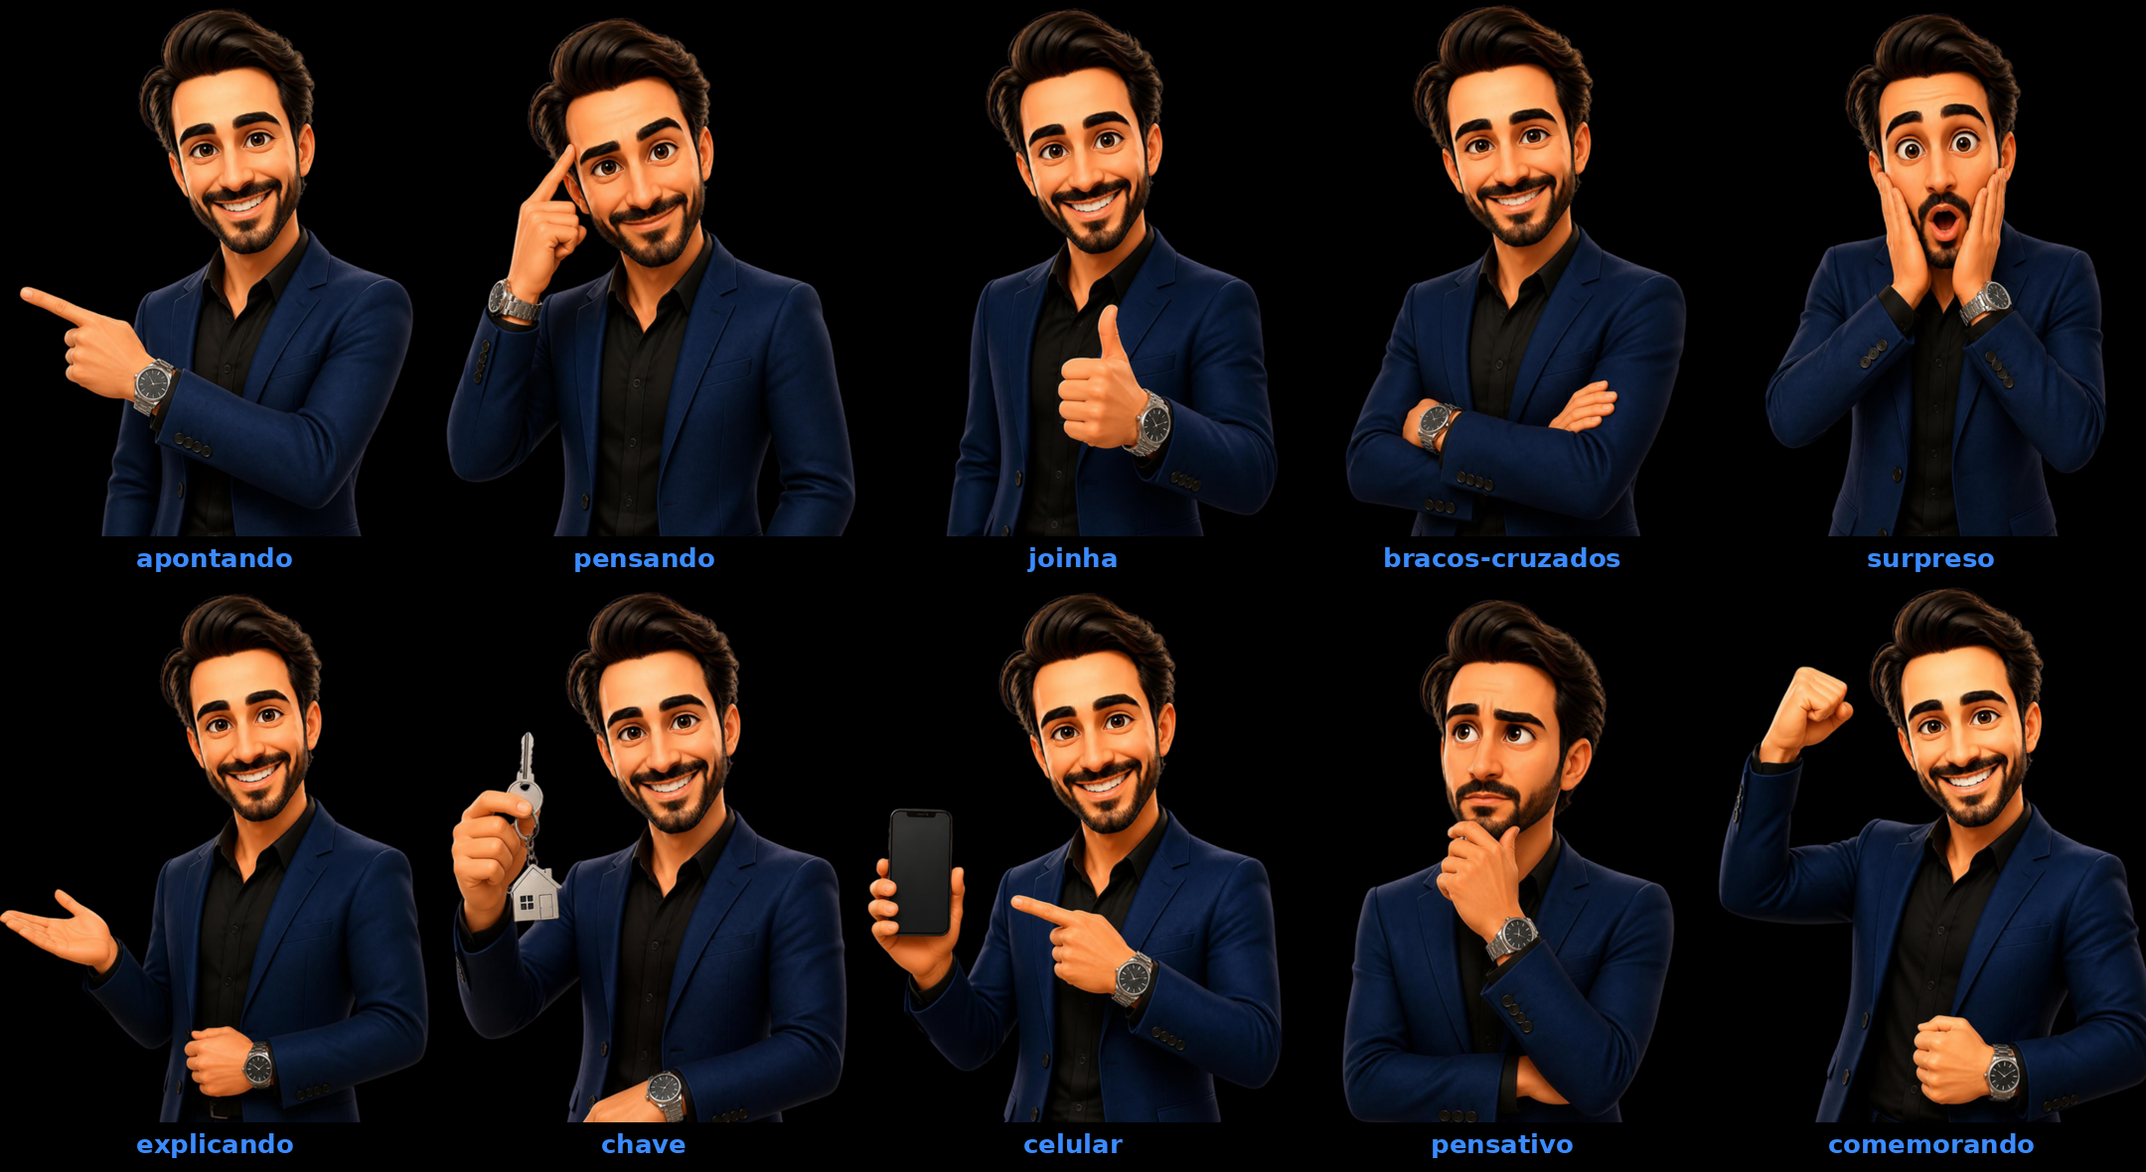
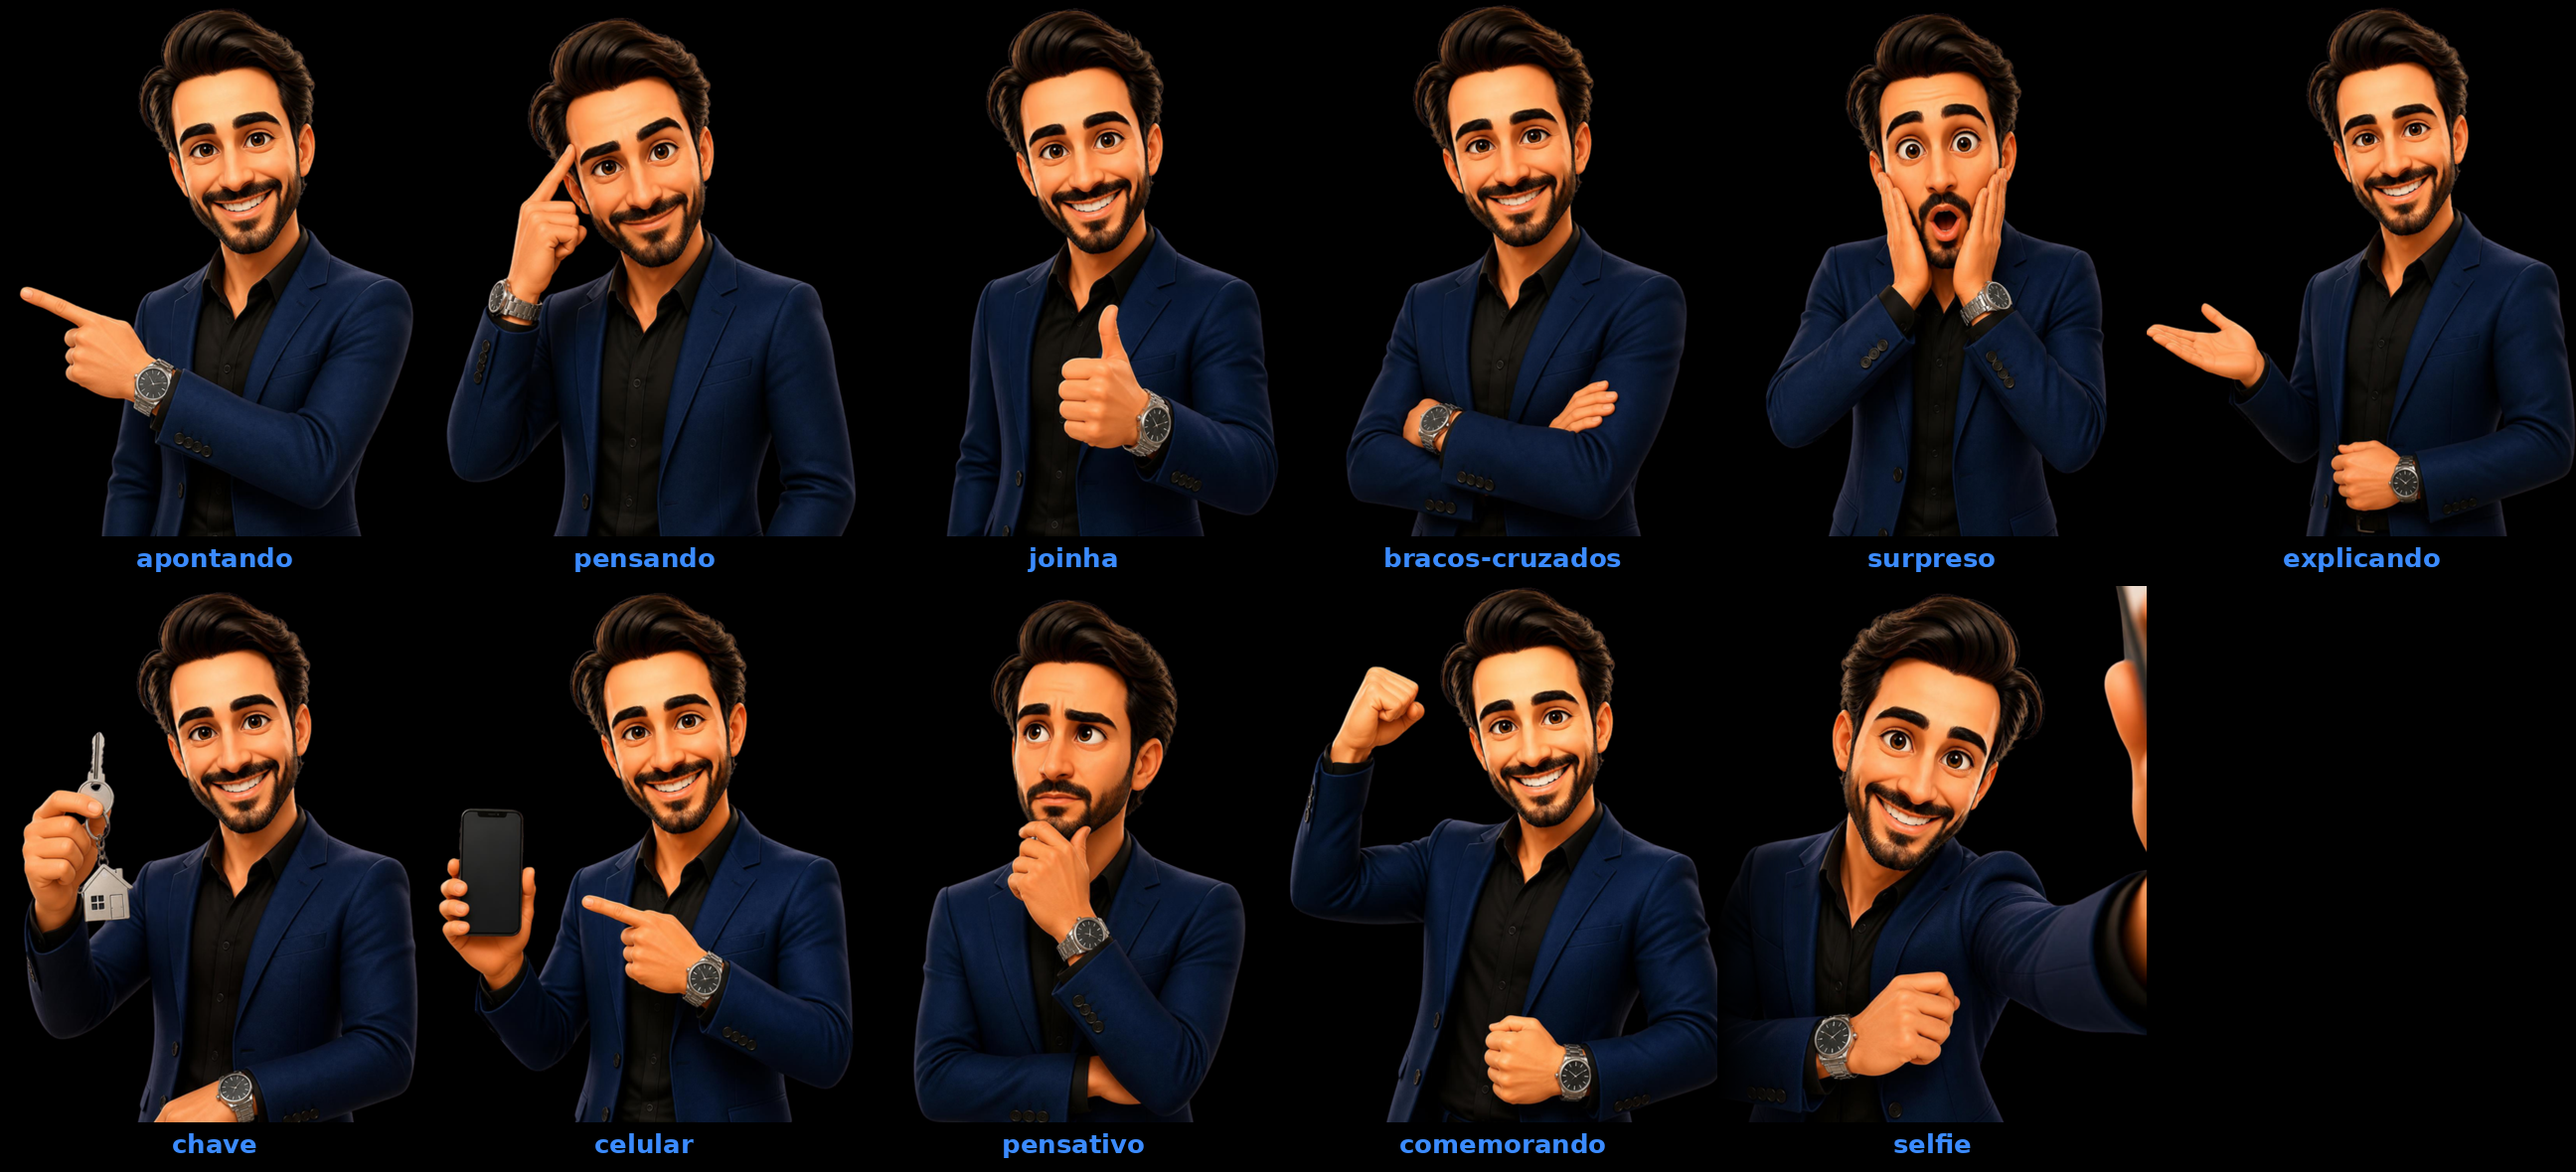
Carrossel financiamento reprovado: pessoas trocadas pelo boneco (capa pensando, CTA selfie) + pose nova selfie
Claude-Session: https://claude.ai/code/session_018X91MFfPMRMPYSAfb3KdfT

diff --git a/.claude/skills/carrossel/SKILL.md b/.claude/skills/carrossel/SKILL.md
@@ -34,7 +34,7 @@ Foto **apontando** (sem fundo, 2026-10-11): `docs/posicionamento/assets/matheus-
 ## Boneco 3D do Matheus (2026-10-11)
 **Regra do dono (2026-10-12) — automática, sem ele pedir:** sempre que a referência tiver uma **pessoa** na lâmina (o autor do post, alguém posando, apontando, reagindo), recriar essa lâmina com o **boneco** no lugar da pessoa — escolher a pose/expressão mais parecida entre as existentes (meio corpo ou `corpo-inteiro/`). Se nenhuma pose combinar, **criar a pose nova** (fluxo abaixo), salvar em `boneco-3d/` (ou `corpo-inteiro/`), atualizar a `prancha.png` e a lista de poses desta seção, e usar no carrossel — tudo no mesmo pedido, avisando na entrega qual pose foi criada. Cena com outra pessoa além do autor (ex.: cliente na foto): o boneco ocupa o lugar do autor; não colocar pessoas reais nem inventar "cliente" como se fosse real.
 
-Personagem 3D **estilo desenho animado/caricatura** (cabeça e olhos grandes, traços simplificados — o dono pediu em 2026-10-11 que pareça claramente um boneco, não uma versão "mais bonita" dele), feito no Canva a partir das fotos dele (só as fotos em que ele aparece sozinho), fundo transparente, em `docs/posicionamento/assets/boneco-3d/<pose>.png` (catálogo: `prancha.png`). Poses: `apontando`, `pensando`, `joinha`, `bracos-cruzados`, `surpreso`, `explicando`, `chave`, `celular`, `pensativo`, `comemorando`. Na lâmina: `"boneco": "<pose>"` (entra à direita, igual ao `comFoto`). **Corpo inteiro** (2026-10-12) em `boneco-3d/corpo-inteiro/` (catálogo `prancha.png`): `em-pe`, `apontando`, `joinha`, `bracos-cruzados`, `andando`, `chave`, `pasta`, `celular`, `comemorando`, `sentado` — usar `"boneco": "corpo-inteiro/<pose>"`. Visual pedido pelo dono: bem magro, 1,70 m, esporte fino, calça na altura do tornozelo, sem meia, mocassim preto sem cadarço (repetir isso no prompt de pose nova). Uma pose por lâmina, combinando com o texto (ex.: `pensando` na capa "eu faria isso", `surpreso` em mito/erro, `celular` no "me chama na DM", `chave` em conquista). Pose nova: gerar com `generate-image` pedindo "exatamente o MESMO personagem de desenho animado da primeira referência" e usando como 1ª referência uma das poses atuais + o mesmo texto de descrição (blazer azul-marinho, camisa preta, relógio prateado), `remove-background` e exportar com fundo transparente pelo design auxiliar.
+Personagem 3D **estilo desenho animado/caricatura** (cabeça e olhos grandes, traços simplificados — o dono pediu em 2026-10-11 que pareça claramente um boneco, não uma versão "mais bonita" dele), feito no Canva a partir das fotos dele (só as fotos em que ele aparece sozinho), fundo transparente, em `docs/posicionamento/assets/boneco-3d/<pose>.png` (catálogo: `prancha.png`). Poses: `apontando`, `pensando`, `joinha`, `bracos-cruzados`, `surpreso`, `explicando`, `chave`, `celular`, `pensativo`, `comemorando`, `selfie` (braço sai pela borda direita). Na lâmina: `"boneco": "<pose>"` (entra à direita, igual ao `comFoto`). **Corpo inteiro** (2026-10-12) em `boneco-3d/corpo-inteiro/` (catálogo `prancha.png`): `em-pe`, `apontando`, `joinha`, `bracos-cruzados`, `andando`, `chave`, `pasta`, `celular`, `comemorando`, `sentado` — usar `"boneco": "corpo-inteiro/<pose>"`. Visual pedido pelo dono: bem magro, 1,70 m, esporte fino, calça na altura do tornozelo, sem meia, mocassim preto sem cadarço (repetir isso no prompt de pose nova). Uma pose por lâmina, combinando com o texto (ex.: `pensando` na capa "eu faria isso", `surpreso` em mito/erro, `celular` no "me chama na DM", `chave` em conquista). Pose nova: gerar com `generate-image` pedindo "exatamente o MESMO personagem de desenho animado da primeira referência" e usando como 1ª referência uma das poses atuais + o mesmo texto de descrição (blazer azul-marinho, camisa preta, relógio prateado), `remove-background` e exportar com fundo transparente pelo design auxiliar.
 
 ## Imagens geradas no Canva sem trabalho manual (2026-10-11)
 O `generate-image` só devolve miniatura. Para baixar em tamanho cheio, automaticamente:
